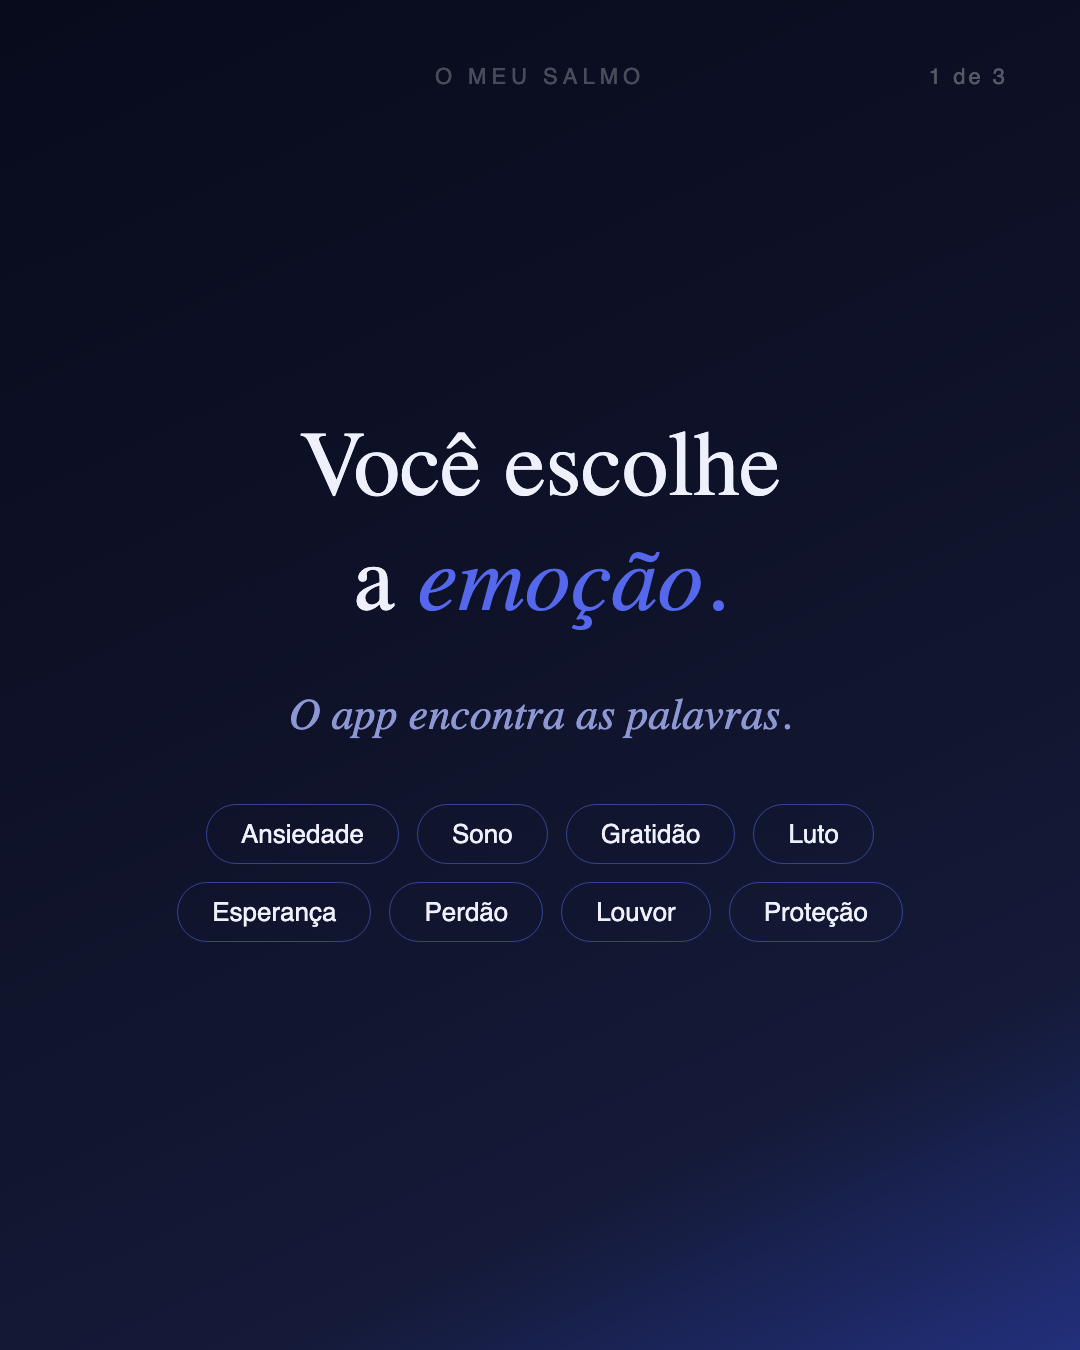
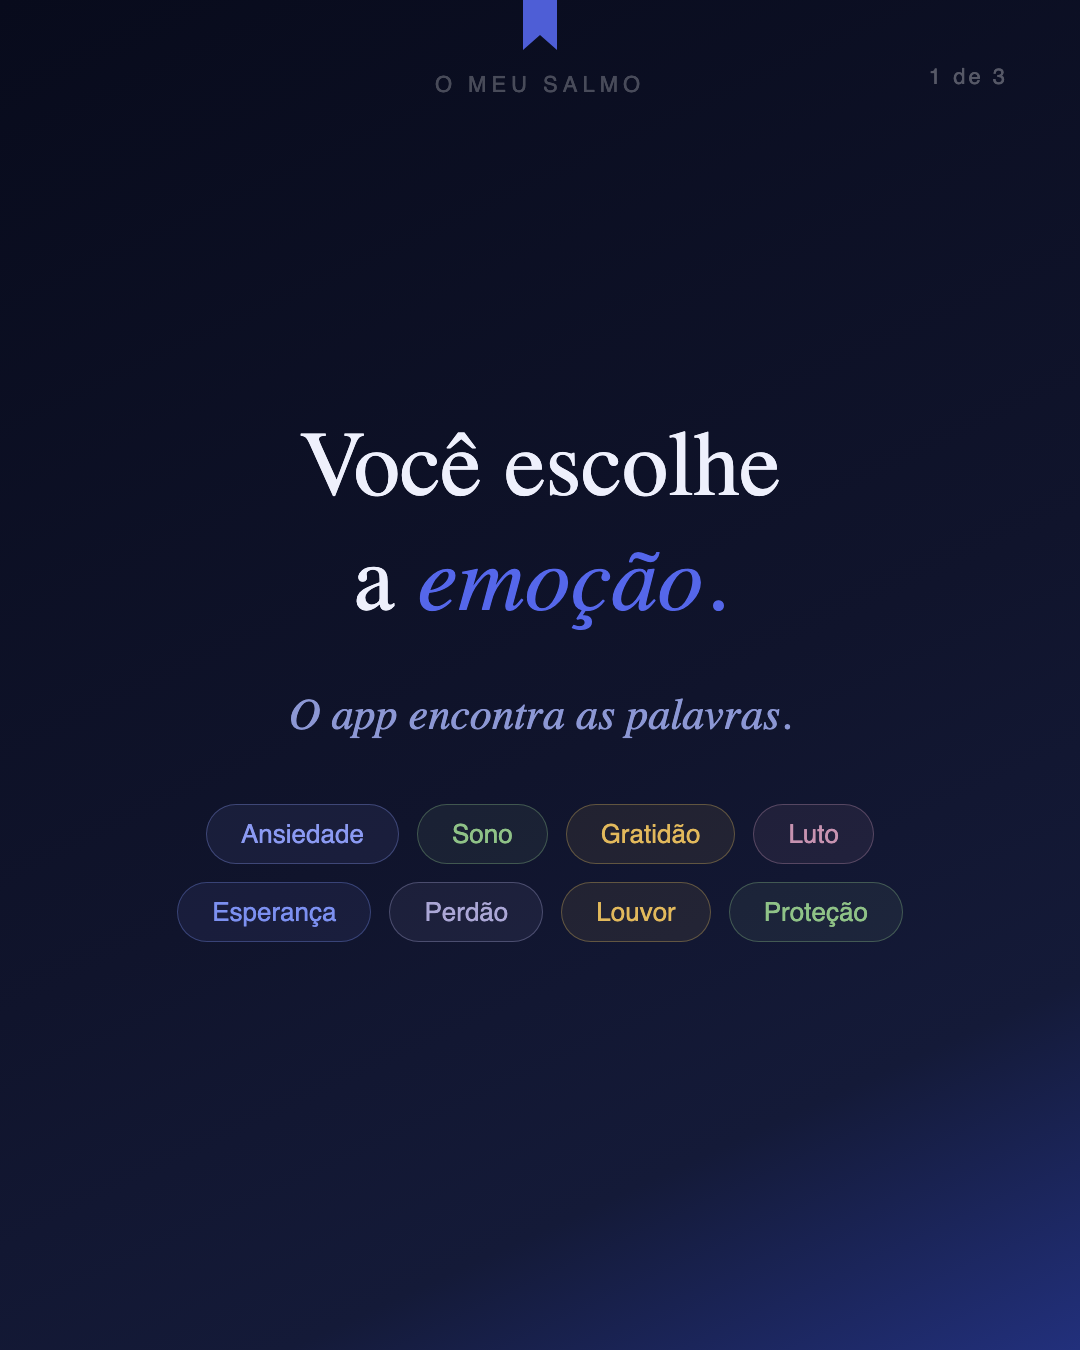
design(instagram): brand-context polish pass (impeccable audit)
Drift audit against existing brand surfaces, then fixes:
- Emotion chips on the app-carousel slide now use the LP's per-emotion
  colors (dark-adapted tints) instead of flat cobalt outlines
- Audio slide now SHOWS the karaoke highlight (lit gold verse line
  between dimmed ones), mirroring the in-app experience
- Brand bookmark/ribbon (from icon+splash+LP) added atop all 7 cards,
  5 app-carousel slides and 2 reel backgrounds (cobalt per theme)
- Contrast fix: amber tags on light amber cards moved to the LP's
  fg token #7A5A18 (was #C99A38 at ~2.2:1, WCAG fail)

diff --git a/instagram/fontes/carrossel-app/slide-02-emocao.html b/instagram/fontes/carrossel-app/slide-02-emocao.html
@@ -10,7 +10,7 @@ body { width:1080px; height:1350px; overflow:hidden; }
   display:flex; flex-direction:column; align-items:center; justify-content:center;
   padding:120px 100px; position:relative; text-align:center;
 }
-.logo { position:absolute; top:64px; left:0; right:0; font-family:'Instrument Sans',sans-serif;
+.logo { position:absolute; top:72px; left:0; right:0; font-family:'Instrument Sans',sans-serif;
   font-size:22px; font-weight:500; color:#FFF; opacity:0.25; letter-spacing:5px; text-transform:uppercase; }
 .progress { position:absolute; top:64px; right:72px; font-family:'Instrument Sans',sans-serif;
   font-size:22px; color:#FFF; opacity:0.30; letter-spacing:3px; }
@@ -23,7 +23,7 @@ body { width:1080px; height:1350px; overflow:hidden; }
   color:#8C97D4; line-height:1.5; margin-top:44px; max-width:820px; }
 .chips { display:flex; flex-wrap:wrap; gap:18px; justify-content:center; margin-top:56px; max-width:840px; }
 .chip { font-family:'Instrument Sans',sans-serif; font-size:26px; color:#EEF0FC;
-  border:1px solid rgba(85,103,234,.55); border-radius:999px; padding:14px 34px; }
+  border:1px solid; border-radius:999px; padding:14px 34px; }
 .cue { position:absolute; bottom:72px; left:0; right:0; font-family:'Instrument Sans',sans-serif;
   font-size:24px; color:#FFF; opacity:0.35; letter-spacing:2px; }
 .gold { color:#C4A86A; }
@@ -31,13 +31,15 @@ body { width:1080px; height:1350px; overflow:hidden; }
 .mark { font-family:'Playfair Display',serif; font-size:400px; color:#5567EA; opacity:0.05;
   position:absolute; bottom:-90px; right:-30px; line-height:1; }
 
+.bookmark{position:absolute;top:0;left:50%;transform:translateX(-50%);width:34px;height:50px;background:#5567EA;clip-path:polygon(0 0,100% 0,100% 100%,50% 70%,0 100%);opacity:0.9;}
 </style></head><body>
 <div class="slide">
+  <div class="bookmark"></div>
   <div class="logo">O Meu Salmo</div>
   <div class="progress">1 de 3</div>
   <div class="title">Você escolhe<br>a <em>emoção.</em></div>
   <div class="sub">O app encontra as palavras.</div>
-  <div class="chips"><span class="chip">Ansiedade</span><span class="chip">Sono</span><span class="chip">Gratidão</span><span class="chip">Luto</span><span class="chip">Esperança</span><span class="chip">Perdão</span><span class="chip">Louvor</span><span class="chip">Proteção</span></div>
+  <div class="chips"><span class="chip" style="color:#8B9AF2;border-color:#8B9AF255;background:#8B9AF214">Ansiedade</span><span class="chip" style="color:#8FC287;border-color:#8FC28755;background:#8FC28714">Sono</span><span class="chip" style="color:#E2B95C;border-color:#E2B95C55;background:#E2B95C14">Gratidão</span><span class="chip" style="color:#C793B1;border-color:#C793B155;background:#C793B114">Luto</span><span class="chip" style="color:#7C90F0;border-color:#7C90F055;background:#7C90F014">Esperança</span><span class="chip" style="color:#ABA7D6;border-color:#ABA7D655;background:#ABA7D614">Perdão</span><span class="chip" style="color:#E2B95C;border-color:#E2B95C55;background:#E2B95C14">Louvor</span><span class="chip" style="color:#8FC287;border-color:#8FC28755;background:#8FC28714">Proteção</span></div>
   
 </div>
 </body></html>

diff --git a/instagram/fontes/carrossel-app/slide-03-audio.html b/instagram/fontes/carrossel-app/slide-03-audio.html
@@ -10,7 +10,7 @@ body { width:1080px; height:1350px; overflow:hidden; }
   display:flex; flex-direction:column; align-items:center; justify-content:center;
   padding:120px 100px; position:relative; text-align:center;
 }
-.logo { position:absolute; top:64px; left:0; right:0; font-family:'Instrument Sans',sans-serif;
+.logo { position:absolute; top:72px; left:0; right:0; font-family:'Instrument Sans',sans-serif;
   font-size:22px; font-weight:500; color:#FFF; opacity:0.25; letter-spacing:5px; text-transform:uppercase; }
 .progress { position:absolute; top:64px; right:72px; font-family:'Instrument Sans',sans-serif;
   font-size:22px; color:#FFF; opacity:0.30; letter-spacing:3px; }
@@ -31,13 +31,17 @@ body { width:1080px; height:1350px; overflow:hidden; }
 .mark { font-family:'Playfair Display',serif; font-size:400px; color:#5567EA; opacity:0.05;
   position:absolute; bottom:-90px; right:-30px; line-height:1; }
 
+.bookmark{position:absolute;top:0;left:50%;transform:translateX(-50%);width:34px;height:50px;background:#5567EA;clip-path:polygon(0 0,100% 0,100% 100%,50% 70%,0 100%);opacity:0.9;}
+.karaoke{margin-top:64px;font-family:'Cormorant',serif;font-style:italic;font-weight:300;font-size:46px;line-height:1.7;text-align:center;}.karaoke .off{color:#8C97D4;opacity:0.35;}.karaoke .on{color:#C4A86A;}
 </style></head><body>
 <div class="slide">
+  <div class="bookmark"></div>
   <div class="logo">O Meu Salmo</div>
   <div class="progress">2 de 3</div>
   <div class="mark">150</div>
   <div class="title">Cada Salmo,<br><em>narrado.</em></div>
   <div class="sub">A voz acompanha a leitura, sem pressa.<br>O versículo que você ouve se acende na tela.</div>
+  <div class="karaoke"><span class="off">O Senhor é o meu pastor;</span><br><span class="on">nada me faltará.</span><br><span class="off">Deitar-me faz em verdes pastos.</span></div>
   
 </div>
 </body></html>

diff --git a/instagram/fontes/carrossel-app/slide-04-offline.html b/instagram/fontes/carrossel-app/slide-04-offline.html
@@ -10,7 +10,7 @@ body { width:1080px; height:1350px; overflow:hidden; }
   display:flex; flex-direction:column; align-items:center; justify-content:center;
   padding:120px 100px; position:relative; text-align:center;
 }
-.logo { position:absolute; top:64px; left:0; right:0; font-family:'Instrument Sans',sans-serif;
+.logo { position:absolute; top:72px; left:0; right:0; font-family:'Instrument Sans',sans-serif;
   font-size:22px; font-weight:500; color:#FFF; opacity:0.25; letter-spacing:5px; text-transform:uppercase; }
 .progress { position:absolute; top:64px; right:72px; font-family:'Instrument Sans',sans-serif;
   font-size:22px; color:#FFF; opacity:0.30; letter-spacing:3px; }
@@ -31,8 +31,10 @@ body { width:1080px; height:1350px; overflow:hidden; }
 .mark { font-family:'Playfair Display',serif; font-size:400px; color:#5567EA; opacity:0.05;
   position:absolute; bottom:-90px; right:-30px; line-height:1; }
 
+.bookmark{position:absolute;top:0;left:50%;transform:translateX(-50%);width:34px;height:50px;background:#5567EA;clip-path:polygon(0 0,100% 0,100% 100%,50% 70%,0 100%);opacity:0.9;}
 </style></head><body>
 <div class="slide">
+  <div class="bookmark"></div>
   <div class="logo">O Meu Salmo</div>
   <div class="progress">3 de 3</div>
   <div class="title">Offline. Grátis.<br><em>Sem anúncios.</em></div>

diff --git a/instagram/fontes/carrossel-app/slide-05-cta.html b/instagram/fontes/carrossel-app/slide-05-cta.html
@@ -10,7 +10,7 @@ body { width:1080px; height:1350px; overflow:hidden; }
   display:flex; flex-direction:column; align-items:center; justify-content:center;
   padding:120px 100px; position:relative; text-align:center;
 }
-.logo { position:absolute; top:64px; left:0; right:0; font-family:'Instrument Sans',sans-serif;
+.logo { position:absolute; top:72px; left:0; right:0; font-family:'Instrument Sans',sans-serif;
   font-size:22px; font-weight:500; color:#FFF; opacity:0.25; letter-spacing:5px; text-transform:uppercase; }
 .progress { position:absolute; top:64px; right:72px; font-family:'Instrument Sans',sans-serif;
   font-size:22px; color:#FFF; opacity:0.30; letter-spacing:3px; }
@@ -31,8 +31,10 @@ body { width:1080px; height:1350px; overflow:hidden; }
 .mark { font-family:'Playfair Display',serif; font-size:400px; color:#5567EA; opacity:0.05;
   position:absolute; bottom:-90px; right:-30px; line-height:1; }
 
+.bookmark{position:absolute;top:0;left:50%;transform:translateX(-50%);width:34px;height:50px;background:#5567EA;clip-path:polygon(0 0,100% 0,100% 100%,50% 70%,0 100%);opacity:0.9;}
 </style></head><body>
 <div class="slide">
+  <div class="bookmark"></div>
   <div class="logo">O Meu Salmo</div>
   
   <div class="eyebrow">Para cada emoção, o Salmo certo</div>

diff --git a/instagram/fontes/carrossel-app/slide-01-hook.html b/instagram/fontes/carrossel-app/slide-01-hook.html
@@ -10,7 +10,7 @@ body { width:1080px; height:1350px; overflow:hidden; }
   display:flex; flex-direction:column; align-items:center; justify-content:center;
   padding:120px 100px; position:relative; text-align:center;
 }
-.logo { position:absolute; top:64px; left:0; right:0; font-family:'Instrument Sans',sans-serif;
+.logo { position:absolute; top:72px; left:0; right:0; font-family:'Instrument Sans',sans-serif;
   font-size:22px; font-weight:500; color:#FFF; opacity:0.25; letter-spacing:5px; text-transform:uppercase; }
 .progress { position:absolute; top:64px; right:72px; font-family:'Instrument Sans',sans-serif;
   font-size:22px; color:#FFF; opacity:0.30; letter-spacing:3px; }
@@ -31,8 +31,10 @@ body { width:1080px; height:1350px; overflow:hidden; }
 .mark { font-family:'Playfair Display',serif; font-size:400px; color:#5567EA; opacity:0.05;
   position:absolute; bottom:-90px; right:-30px; line-height:1; }
 
+.bookmark{position:absolute;top:0;left:50%;transform:translateX(-50%);width:34px;height:50px;background:#5567EA;clip-path:polygon(0 0,100% 0,100% 100%,50% 70%,0 100%);opacity:0.9;}
 </style></head><body>
 <div class="slide">
+  <div class="bookmark"></div>
   <div class="logo">O Meu Salmo</div>
   
   <div class="eyebrow">O App</div>

diff --git a/instagram/fontes/cards/dia-06-sexta-louvor.html b/instagram/fontes/cards/dia-06-sexta-louvor.html
@@ -45,14 +45,14 @@ body { width:1080px; height:1350px; overflow:hidden; }
   position:absolute; top:44px; right:60px;
   font-family:'Cormorant', serif;
   font-size:28px; font-weight:300;
-  color:#C99A38; opacity:0.4;
+  color:#7A5A18; opacity:0.4;
   letter-spacing:1px;
 }
 .collection-tag {
   font-family:'Instrument Sans', sans-serif;
   font-size:22px; font-weight:500;
   letter-spacing:4px; text-transform:uppercase;
-  color:#C99A38; opacity:0.85;
+  color:#7A5A18; opacity:0.85;
   margin-bottom:44px;
 }
 .deco-line {
@@ -81,8 +81,10 @@ body { width:1080px; height:1350px; overflow:hidden; }
   color:#8A6A28; opacity:0.85;
   letter-spacing:1.5px;
 }
+.bookmark{position:absolute;top:0;left:50%;transform:translateX(-50%);width:34px;height:50px;background:#2A47DD;clip-path:polygon(0 0,100% 0,100% 100%,50% 70%,0 100%);opacity:0.85;}
 </style></head><body>
 <div class="slide">
+  <div class="bookmark"></div>
   <div class="accent-bar"></div>
   <div class="glow"></div>
   <div class="watermark">150</div>

diff --git a/instagram/fontes/cards/dia-02-segunda-gratidao.html b/instagram/fontes/cards/dia-02-segunda-gratidao.html
@@ -38,7 +38,7 @@ body { width:1080px; height:1350px; overflow:hidden; }
   font-family:'Instrument Sans', sans-serif;
   font-size:22px; font-weight:500;
   letter-spacing:4px; text-transform:uppercase;
-  color:#C99A38; opacity:0.85;
+  color:#7A5A18; opacity:0.85;
   margin-bottom:44px;
 }
 .deco-line {
@@ -67,8 +67,10 @@ body { width:1080px; height:1350px; overflow:hidden; }
   color:#8A6A28; opacity:0.85;
   letter-spacing:1.5px;
 }
+.bookmark{position:absolute;top:0;left:50%;transform:translateX(-50%);width:34px;height:50px;background:#2A47DD;clip-path:polygon(0 0,100% 0,100% 100%,50% 70%,0 100%);opacity:0.85;}
 </style></head><body>
 <div class="slide">
+  <div class="bookmark"></div>
   <div class="accent-bar"></div>
   <div class="watermark">100</div>
   <div class="logo">O Meu Salmo</div>

diff --git a/instagram/fontes/cards/dia-01-domingo-esperanca.html b/instagram/fontes/cards/dia-01-domingo-esperanca.html
@@ -69,8 +69,10 @@ body { width:1080px; height:1350px; overflow:hidden; }
   color:#8A6A28; opacity:0.85;
   letter-spacing:1.5px;
 }
+.bookmark{position:absolute;top:0;left:50%;transform:translateX(-50%);width:34px;height:50px;background:#2A47DD;clip-path:polygon(0 0,100% 0,100% 100%,50% 70%,0 100%);opacity:0.85;}
 </style></head><body>
 <div class="slide">
+  <div class="bookmark"></div>
   <div class="accent-bar"></div>
   <div class="watermark">23</div>
   <div class="logo">O Meu Salmo</div>

diff --git a/instagram/fontes/cards/dia-03-terca-ansiedade.html b/instagram/fontes/cards/dia-03-terca-ansiedade.html
@@ -75,8 +75,10 @@ body { width:1080px; height:1350px; overflow:hidden; }
   color:#C4A86A; opacity:0.85;
   letter-spacing:1.5px;
 }
+.bookmark{position:absolute;top:0;left:50%;transform:translateX(-50%);width:34px;height:50px;background:#5567EA;clip-path:polygon(0 0,100% 0,100% 100%,50% 70%,0 100%);opacity:0.85;}
 </style></head><body>
 <div class="slide">
+  <div class="bookmark"></div>
   <div class="accent-bar"></div>
   <div class="watermark">55</div>
   <div class="logo">O Meu Salmo</div>

diff --git a/instagram/fontes/cards/dia-04-quarta-perdao.html b/instagram/fontes/cards/dia-04-quarta-perdao.html
@@ -74,8 +74,10 @@ body { width:1080px; height:1350px; overflow:hidden; }
   color:#C4A86A; opacity:0.85;
   letter-spacing:1.5px;
 }
+.bookmark{position:absolute;top:0;left:50%;transform:translateX(-50%);width:34px;height:50px;background:#5567EA;clip-path:polygon(0 0,100% 0,100% 100%,50% 70%,0 100%);opacity:0.85;}
 </style></head><body>
 <div class="slide">
+  <div class="bookmark"></div>
   <div class="accent-bar"></div>
   <div class="watermark">51</div>
   <div class="logo">O Meu Salmo</div>

diff --git a/instagram/fontes/reels/reel-salmo-121.html b/instagram/fontes/reels/reel-salmo-121.html
@@ -67,8 +67,10 @@ body { width:1080px; height:1920px; overflow:hidden; }
   color:#FFFFFF; opacity:0.4;
   letter-spacing:2px;
 }
+.bookmark{position:absolute;top:0;left:50%;transform:translateX(-50%);width:34px;height:50px;background:#5567EA;clip-path:polygon(0 0,100% 0,100% 100%,50% 70%,0 100%);opacity:0.9;}
 </style></head><body>
 <div class="slide">
+  <div class="bookmark"></div>
   <div class="accent-bar"></div>
   <div class="watermark">121</div>
   <div class="logo">O Meu Salmo</div>

diff --git a/instagram/fontes/reels/reel-salmo-23.html b/instagram/fontes/reels/reel-salmo-23.html
@@ -67,8 +67,10 @@ body { width:1080px; height:1920px; overflow:hidden; }
   color:#FFFFFF; opacity:0.4;
   letter-spacing:2px;
 }
+.bookmark{position:absolute;top:0;left:50%;transform:translateX(-50%);width:34px;height:50px;background:#5567EA;clip-path:polygon(0 0,100% 0,100% 100%,50% 70%,0 100%);opacity:0.9;}
 </style></head><body>
 <div class="slide">
+  <div class="bookmark"></div>
   <div class="accent-bar"></div>
   <div class="watermark">23</div>
   <div class="logo">O Meu Salmo</div>
